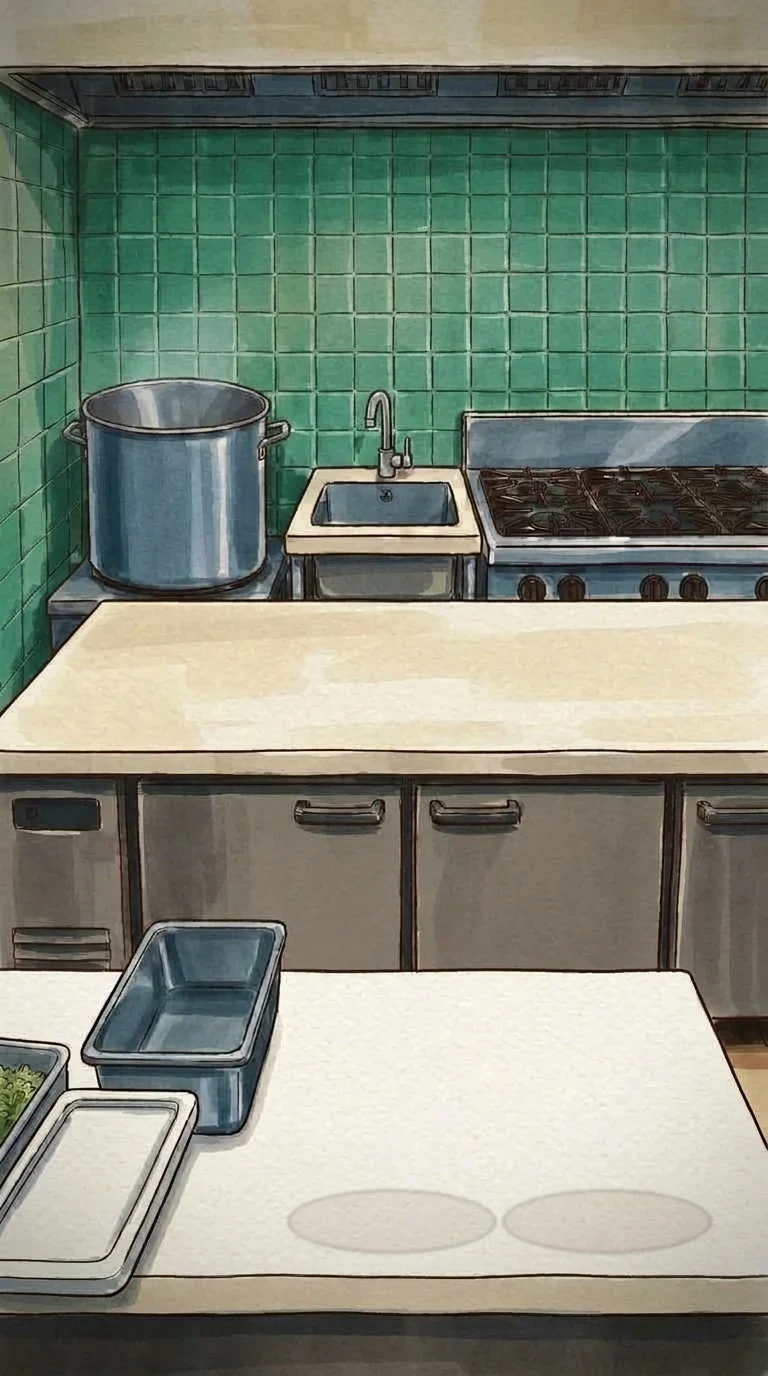
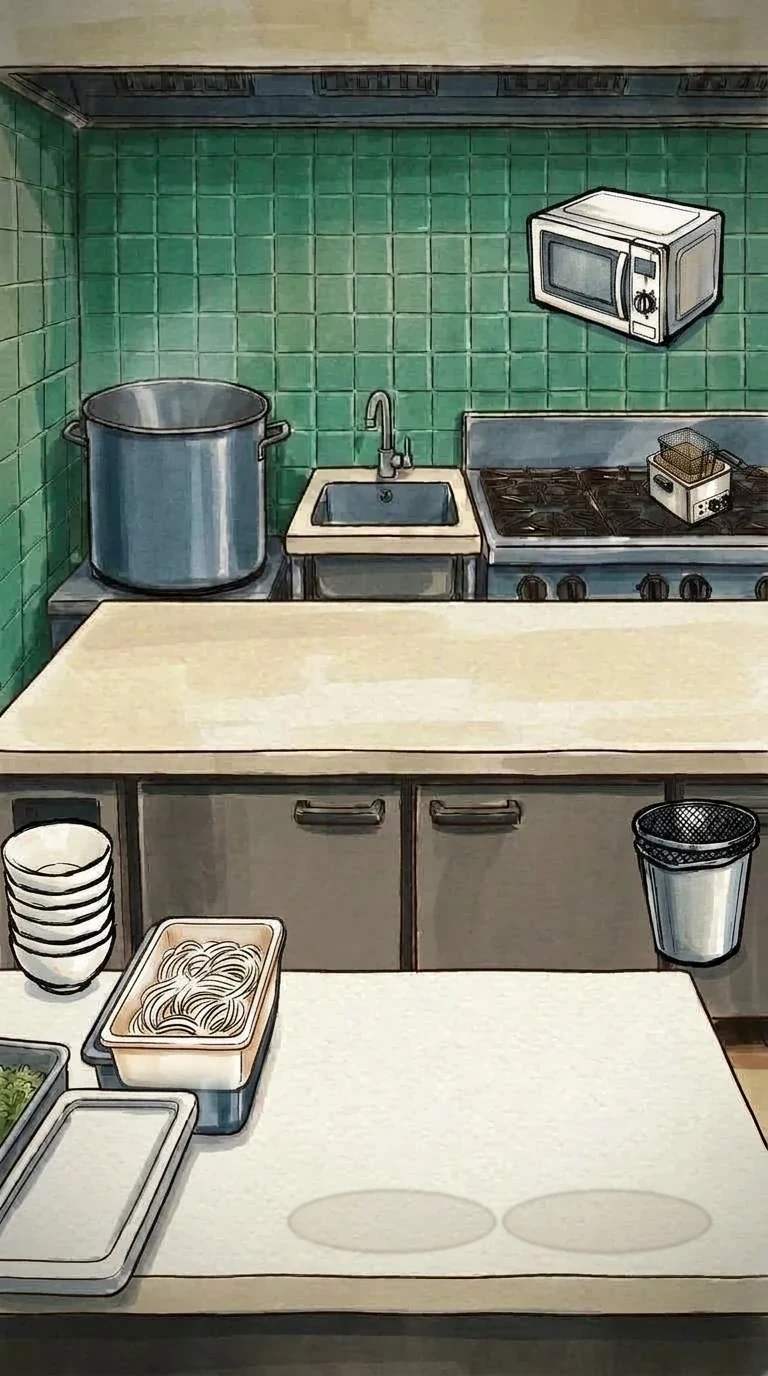
Het "dan ghep" + het "chim" (Kent 19/09: "vi tri do sai, chu chim, hieu ung chim")
1. Nuong do TINH vao tranh — scripts/bake_scene.py (moi):
   sprite thung rac / chong to / khay soi / lo vi song / chao chien dat dung ZONES
   (contain, can giua = .pv-objimg) -> anh guide -> Flow edit-image ve lai cho cung
   anh sang + bong tiep xuc -> struct_corr vs guide 0.804 -> scene-baked.webp.
   Flow "ve giup" them khay rau o cho thot -> RESTORE = ['boards'] tra pixel goc,
   mep lam mem. draw_mats.py doc scene-baked neu co -> public/art/scene.webp.
   SCENE.baked = ['trash','micro','fryer','stack','noodle']: game khong ve sprite
   cho cac o nay nua, chi giu o bam. Chong to / khay soi: chi khi level co DUNG 1
   loai; nhieu loai thi van sprite. Doi ZONES -> chay lai bake_scene + draw_mats.
   Bo het nhan noi (.hint): "to nong tru o day", "noi trong", "thot 1"...

2. LOUD: chu vien giay day (paint-order stroke, .9cqw), HUD/phieu vien muc + bong
   lech; +Nk 30px vang vien den no DUOI PHIEU (o HUD thi bay len la ra khoi tranh);
   dau ✓ 1.15x cao phieu, sao 0.8x; bung to: nen toi 22% mot nhip + khung rung 2px
   + phieu loe trang; o nhan nay 1.18 + vong vang.

Bay: `#pov small {display:block}` (id) de `.pv-stage .hint` -> phai #pov + !important;
`.pv-float` goc dung sau -> phai `#pov .pv-float`.

92 test pass. sw v72.

Claude-Session: https://claude.ai/code/session_014awNcPnGks6S8UpACG9mkS

diff --git a/src/pov.js b/src/pov.js
@@ -76,9 +76,13 @@ export class Pov {
       return `<div class="pv-pan dragsrc" title="${label(it)}" style="${st}" ${src1('item', it)}><img class="pv-panimg" src="${panArt(it)}" alt="" draggable="false" onerror="this.closest('.pv-pan').classList.add('noart');this.remove()"><i class="pv-ghosticon">${img(it)}</i><small>${label(it)}</small></div>`;
     };
     // Đồ có sprite riêng thì vẽ to đầy ô; icon nhỏ giữ lại (ẩn) để làm cái bay theo ngón tay.
-    const src = (it) => { const st = stationArt(it);
+    // Đồ TĨNH đã nướng vào tranh (scripts/bake_scene.py, SCENE.baked): không vẽ sprite nữa, chỉ giữ ô bấm.
+    // Chồng tô / khay sợi: chỉ khi level có ĐÚNG 1 loại (tranh vẽ 1 cái); nhiều loại thì vẫn sprite.
+    const baked = new Set(SCENE.baked || []);
+    const bakedOne = (zk) => baked.has(zk) && (zk === 'stack' ? C.bowlItems : C.noodleItems).length === 1;
+    const src = (it, zk) => { const st = stationArt(it); const hide = !!zk && bakedOne(zk);
       return st
-        ? `<div class="pv-obj dragsrc" ${src1('item', it)}><img class="pv-objimg" src="${st}" alt="" draggable="false" onerror="this.closest('.pv-obj').classList.add('noart');this.remove()"><i class="pv-ghosticon">${img(it)}</i><small>${label(it)}</small></div>`
+        ? `<div class="pv-obj dragsrc${hide ? ' baked' : ''}" title="${label(it)}" ${src1('item', it)}>${hide ? '' : `<img class="pv-objimg" src="${st}" alt="" draggable="false" onerror="this.closest('.pv-obj').classList.add('noart');this.remove()">`}<i class="pv-ghosticon">${img(it)}</i><small>${label(it)}</small></div>`
         : `<div class="pv-src dragsrc" ${src1('item', it)}>${img(it)}<small>${label(it)}</small></div>`; };
     const zone = (k, inner, cls = '') => `<div class="pv-z ${cls}" style="${z(k)}">${inner}</div>`;
     const dropz = (k, name, inner, cls = '') => `<div class="pv-z drop ${cls}" data-zone="${name}" style="${z(k)}">${inner}</div>`;
@@ -109,14 +113,14 @@ export class Pov {
               + `<img class="pv-steam s1" src="${fx('steam')}" alt="" draggable="false" onerror="this.remove()">`   // 1 wisp/nồi: 3 nồi + 2 khói nồi trụng + 1 giọt = 6 (ngân sách J9)
               + `<i class="pv-ghosticon">${img(tok)}</i><small>${label(tok)}</small></div>`).join(''),
             'row pots') : ''}
-        ${this.has.fryer ? dropz('fryer', 'fryer', `${objImg('fryer')}<div id="pvFryer"></div>`, 'st-fryer') : ''}
-        ${this.has.microwave ? dropz('micro', 'microwave', `${objImg('microwave')}<div id="pvMw"></div>`, 'st-mw') : ''}
+        ${this.has.fryer ? dropz('fryer', 'fryer', `${baked.has('fryer') ? '' : objImg('fryer')}<div id="pvFryer"></div>`, 'st-fryer') : ''}
+        ${this.has.microwave ? dropz('micro', 'microwave', `${baked.has('micro') ? '' : objImg('microwave')}<div id="pvMw"></div>`, 'st-mw') : ''}
         ${zone('prep', `<div class="pv-pans${panRows > 1 ? ' two' : ''}" id="pvTops">${panList.map(pan).join('')}</div>`, 'shelf')}
-        ${zone('stack', `<div class="pv-srcs">${C.bowlItems.map(src).join('')}</div>`, 'col')}
-        ${zone('noodle', `<div class="pv-srcs">${C.noodleItems.map(src).join('')}</div>`, 'row')}
+        ${zone('stack', `<div class="pv-srcs">${C.bowlItems.map((it) => src(it, 'stack')).join('')}</div>`, 'col')}
+        ${zone('noodle', `<div class="pv-srcs">${C.noodleItems.map((it) => src(it, 'noodle')).join('')}</div>`, 'row')}
         ${this.has.prep ? zone('boards', '<div class="pv-boards" id="pvBoards"></div>', 'row') : ''}
         ${zone('slots', '<div class="pv-slots" id="pvSlots"></div>')}
-        ${dropz('trash', 'trash', `<img class="pv-objimg" src="${trashArt()}" alt="" draggable="false" onerror="this.closest('.pv-z').classList.add('noart');this.remove()"><span class="pv-tr">🗑</span>`, 'trash')}
+        ${dropz('trash', 'trash', baked.has('trash') ? '' : `<img class="pv-objimg" src="${trashArt()}" alt="" draggable="false" onerror="this.closest('.pv-z').classList.add('noart');this.remove()"><span class="pv-tr">🗑</span>`, 'trash')}
       </div>
       <div class="pv-msg" id="pvMsg">Kéo hoặc chạm đôi: tô vô nồi để trụng · sợi vô rọ · topping vô tô · tô xong lên phiếu</div>`;
     // J8 — nhãn khay chỉ hiện ở level gợi ý (simplify / showLabels); level thật thì ẩn, sai 3 lần liên tiếp mới bật lại.
@@ -224,6 +228,7 @@ export class Pov {
     const tk = this.el.querySelector(`.tk[data-i="${t.id}"]`); if (!tk) return;
     const tr = tk.getBoundingClientRect();
     const cx = tr.left + tr.width / 2, cy = tr.top + tr.height / 2;
+    this._floatAt = { x: cx, y: tr.bottom + 6, t: performance.now() };   // +Nk nổ dưới phiếu
 
     // 1. tô bay lên phiếu (0–280 ms)
     const bowl = this.el.querySelector(`.pv-slot[data-i="${src?.i}"] .pv-bowl`) || this.el.querySelector('.pv-bowl');
@@ -238,6 +243,9 @@ export class Pov {
       setTimeout(() => g.remove(), 380);   // onfinish KHÔNG chạy khi tab bị nén khung hình — dọn bằng hẹn giờ
     }
     setTimeout(() => this.C.ev?.onSfx?.('serve'), 200);
+    // LOUD: nền tối một nhịp + khung rung nhẹ (phần tử riêng, tự dọn)
+    const dim = document.createElement('div'); dim.className = 'pv-dim'; this.el.appendChild(dim); setTimeout(() => dim.remove(), 500);
+    const stage = $('pvStage'); if (stage) { stage.classList.remove('jolt'); void stage.offsetWidth; stage.classList.add('jolt'); setTimeout(() => stage.classList.remove('jolt'), 320); }
 
     // 2. bản sao phiếu ở lại để đóng dấu rồi trượt đi
     const gh = tk.cloneNode(true); gh.className = 'tk pv-tkghost';
@@ -248,7 +256,7 @@ export class Pov {
       const st = document.createElement('img'); st.className = 'pv-fx pv-stamp'; st.src = fx('stamp');
       st.draggable = false; st.onerror = () => st.remove();
       // dấu cao ~0,8 chiều cao phiếu: đo lần đầu để 0.9*rộng → con dấu 65px trên phiếu 41px, to hơn cả phiếu
-      st.style.cssText = `left:${tr.right - tr.width * 0.15}px;top:${tr.top + tr.height * 0.1}px;width:${(tr.height * 0.8).toFixed(0)}px`;
+      st.style.cssText = `left:${tr.right - tr.width * 0.18}px;top:${tr.top + tr.height * 0.1}px;width:${(tr.height * 1.15).toFixed(0)}px`;   // LOUD: 1.15× cao phiếu (trước 0.8)
       this.el.appendChild(st);
       st.animate([{ transform: 'translate(-50%,-10%) rotate(-8deg) scale(1.6)', opacity: 0 },
         { transform: 'translate(-50%,-10%) rotate(-8deg) scale(1)', opacity: 1 }],
@@ -259,7 +267,7 @@ export class Pov {
       if (!t.mistakes) for (const k of [-1, 1]) {           // tô không lỗi: hai ngôi sao bay lên
         const sp = document.createElement('img'); sp.className = 'pv-fx pv-star'; sp.src = fx('sparkle');
         sp.draggable = false; sp.onerror = () => sp.remove();
-        sp.style.cssText = `left:${cx + k * tr.width * 0.22}px;top:${tr.top}px;width:${(tr.height * 0.5).toFixed(0)}px`;
+        sp.style.cssText = `left:${cx + k * tr.width * 0.22}px;top:${tr.top}px;width:${(tr.height * 0.8).toFixed(0)}px`;
         this.el.appendChild(sp);
         sp.animate([{ opacity: 0, transform: 'translate(-50%,0) scale(.6)' },
           { opacity: 1, transform: `translate(-50%,-${tr.height * 0.5}px) scale(1)`, offset: .4 },
@@ -466,7 +474,7 @@ export class Pov {
       root.classList.add('dragging');   // đang kéo mới hiện viền chỗ thả (CSS), lúc thường để tranh sạch
       ghost.style.transform = `translate(${e.clientX - 28}px, ${e.clientY - 28}px)`;
       // J8 — chạm giữ ≥ 350 ms không kéo → tooltip tên món (nhãn khay ẩn mặc định)
-      if (el.classList.contains('pv-pan')) drag.hold = setTimeout(() => { if (drag && !drag.moved) this.tip(el); }, 350);
+      if (el.classList.contains('pv-pan') || el.classList.contains('pv-obj')) drag.hold = setTimeout(() => { if (drag && !drag.moved) this.tip(el); }, 350);
     };
     // Bóng kéo bám con trỏ NGAY trong pointermove: đặt transform là việc rẻ, không đọc layout,
     // và không phụ thuộc rAF — tab bị hãm nhịp thì bóng vẫn theo tay. Chỗ nặng là dò ô
@@ -641,9 +649,11 @@ export class Pov {
   }
   moneyFloat(n) {
     const a = $('pvMoney'); if (!a) return;
+    // Nổ ngay chỗ PHIẾU vừa bưng (serveFx ghi _floatAt) — ở HUD thì bay lên là ra khỏi tranh. Không có thì ở ô tiền.
     const r = a.getBoundingClientRect(), e = document.createElement('span');
+    const at = this._floatAt && performance.now() - this._floatAt.t < 1500 ? this._floatAt : { x: r.left + r.width / 2, y: r.top + r.height + 8 };
     e.className = 'pv-float'; e.textContent = `+${n}k`;
-    e.style.left = `${r.left}px`; e.style.top = `${r.top}px`;
+    e.style.left = `${at.x}px`; e.style.top = `${at.y}px`; e.style.transform = 'translateX(-50%)';
     this.el.appendChild(e); this.o.sfx?.coin?.();
     setTimeout(() => e.remove(), 720);
   }

diff --git a/index.html b/index.html
@@ -448,6 +448,43 @@
         font-size: 4.2cqw; line-height: 1; padding: 0; cursor: pointer; color: #3b2a1e;
         border: 1px solid rgba(90,66,44,.35); border-radius: 50%; background: rgba(255,252,244,.9); }
 
+      /* ---- LOUD (Kent 19/09: "chữ chìm, hiệu ứng chìm"): chữ có viền giấy dày, hiệu ứng phẳng-bão-hoà-viền-đen, to gấp đôi ---- */
+      #pov .pv-stage .hint { display: none !important; }   /* #pov small {display:block} (id) đè .pv-stage .hint */
+      #pov .pv-stage .pv-obj.baked small { display: none; }        /* đồ đã vẽ trong tranh: không nhãn, chạm giữ mới hiện tên */                                   /* "tô nóng trữ ở đây", "nồi trống", "thớt 1"… — tranh sạch */
+      .pv-stage small, .pv-stage .pv-hud, .pv-stage .pv-hud span, .pv-stage .pv-hud i, .pv-rail .tk b, .pv-rail .tk span, #pov .pv-tip {
+        color: #26190f; font-weight: 700; paint-order: stroke fill; -webkit-text-stroke: .9cqw rgba(255,252,244,.96);
+        text-shadow: 0 1px 0 rgba(255,252,244,.9), 0 -1px 0 rgba(255,252,244,.9), 1px 0 0 rgba(255,252,244,.9), -1px 0 0 rgba(255,252,244,.9); }
+      .pv-stage .pv-pan small { font-size: 2.6cqw; }
+      .pv-stage .pv-src small, .pv-stage .pv-broth small { font-size: 2.8cqw; }
+      .pv-stage .pv-hud { background: rgba(255,252,244,.94); border: .45cqw solid #26190f; box-shadow: 0 .8cqw 0 #26190f55; }
+      .pv-stage .pv-hud span { font-size: 5.2cqw; }
+      .pv-streak { font-size: 4.2cqw; color: #fff; background: #d64a2c; -webkit-text-stroke: 0; text-shadow: none; border: .4cqw solid #26190f; }
+      .pv-x { border: .45cqw solid #26190f; }
+      .pv-rail .tk { border: .45cqw solid #26190f; box-shadow: .6cqw .8cqw 0 #26190f55; }
+      .pv-clock circle { stroke-width: 5; }
+      .pv-clock .bg { stroke: rgba(38,25,15,.22); }
+      /* tiền bay: vàng chói, viền đen, to gấp đôi, nảy rồi bay */
+      #pov .pv-float { font-family: "Patrick Hand", cursive; font-size: 30px; color: #ffd23f; text-shadow: none;   /* #pov: đè rule .pv-float gốc (16px) đứng sau */
+        paint-order: stroke fill; -webkit-text-stroke: 6px #26190f; animation: pvFloat .9s cubic-bezier(.2,.9,.3,1) forwards; }
+      @keyframes pvFloat { 0% { transform: translate(-50%, 6px) scale(.6); opacity: 0; } 18% { transform: translate(-50%, -4px) scale(1.25); opacity: 1; }
+        40% { transform: translate(-50%, -10px) scale(1); } 100% { transform: translate(-50%, -64px) scale(1); opacity: 0; } }
+      /* ô nhận nảy mạnh hơn + vòng loé */
+      @keyframes pvHit { 0% { transform: scale(1); } 40% { transform: scale(1.18); } 100% { transform: scale(1); } }
+      .pv-stage .drop:not(.pv-z) { position: relative; }
+      .drop.hit::after { content: ''; position: absolute; inset: -6%; border-radius: 14%; border: .8cqw solid #ffd23f;
+        box-shadow: 0 0 0 .45cqw #26190f, 0 0 12px #ffd23f; animation: pvRing .34s ease-out forwards; pointer-events: none; }
+      @keyframes pvRing { from { opacity: 1; transform: scale(.9); } to { opacity: 0; transform: scale(1.15); } }
+      /* khoảnh khắc bưng tô: nền tối một nhịp + rung nhẹ + phiếu loé trắng */
+      #pov .pv-dim { position: fixed; inset: 0; z-index: 17; pointer-events: none; background: #1a1008; opacity: 0; animation: pvDim .45s ease-out forwards; }
+      @keyframes pvDim { 0% { opacity: 0; } 20% { opacity: .22; } 100% { opacity: 0; } }
+      .pv-stage.jolt { animation: pvJolt .28s linear; }
+      @keyframes pvJolt { 0%, 100% { transform: translate(0,0); } 25% { transform: translate(2px,-2px); } 50% { transform: translate(-2px,1px); } 75% { transform: translate(1px,2px); } }
+      #pov .pv-tkghost::before { content: ''; position: absolute; inset: 0; background: #fff; opacity: 0; animation: tkFlash .32s ease-out .26s; pointer-events: none; z-index: 3; }
+      @keyframes tkFlash { 0% { opacity: 0; } 30% { opacity: .85; } 100% { opacity: 0; } }
+      #pov .pv-stamp { filter: drop-shadow(0 2px 0 #26190f) drop-shadow(0 0 4px rgba(255,255,255,.8)); }
+      #pov .pv-star, #pov .pv-burst { filter: drop-shadow(0 1px 0 #26190f); }
+      @media (prefers-reduced-motion: reduce) { .pv-stage.jolt, #pov .pv-dim { animation: none; } }
+
       /* ---- J9: đời sống nền. Tất cả là CSS loop trên phần tử KHÔNG bị render() dựng lại (setHTML) ---- */
       .pv-stage .pv-z.st-pot .pv-steam { position: absolute; left: 50%; top: 4%; width: 34%; height: auto; pointer-events: none;
         opacity: 0; animation: potSteam 3s ease-out infinite; }

diff --git a/public/sw.js b/public/sw.js
@@ -1,5 +1,5 @@
 // Quán Bún PWA — cache-first cho tài nguyên build (tên file có hash), network-first cho trang; mở offline được sau lần tải đầu.
-const VERSION = 'qb-' + (self.registration ? self.registration.scope : '') + '-v67';
+const VERSION = 'qb-' + (self.registration ? self.registration.scope : '') + '-v72';
 const CORE = ['./', './index.html', './manifest.webmanifest', './icon-192.png', './icon-512.png'];
 self.addEventListener('install', (e) => { e.waitUntil(caches.open(VERSION).then((c) => c.addAll(CORE)).then(() => self.skipWaiting())); });
 self.addEventListener('activate', (e) => { e.waitUntil(caches.keys().then((ks) => Promise.all(ks.filter((k) => k !== VERSION).map((k) => caches.delete(k)))).then(() => self.clients.claim())); });

diff --git a/src/data/counter-layout.js b/src/data/counter-layout.js
@@ -6,7 +6,10 @@
 // Vẽ hitbox to hơn vật một chút cho dễ trúng ngón tay; ảnh chỉ để nhìn.
 // Đổi nền khác thì đo lại đúng bảng ZONES này, không phải sửa code.
 
-export const SCENE = { src: 'art/scene.webp', w: 768, h: 1376 };
+export const SCENE = { src: 'art/scene.webp', w: 768, h: 1376,
+  // Đồ TĨNH đã vẽ thẳng vào tranh bằng scripts/bake_scene.py (Kent 19/09: "nhìn như dán ghép").
+  // Game không vẽ sprite cho các ô này nữa. Đổi ZONES của chúng thì chạy lại bake_scene.py + draw_mats.py.
+  baked: ['trash', 'micro', 'fryer', 'stack', 'noodle'] };
 
 /** x, y, w, h tính bằng % của khung nền. */
 export const ZONES = {

diff --git a/scripts/bake_scene.py b/scripts/bake_scene.py
@@ -1,0 +1,109 @@
+"""Nuong do vat TINH vao tranh nen (Kent 19/09: "nhin nhu dan ghep").
+
+  Sprite (thung rac, chong to, khay soi, lo vi song, chao chien) dat vao dung ZONES
+  (contain, can giua — y nhu .pv-objimg trong game) -> anh "guide" ->
+  Flow edit-image ve lai cho cung anh sang / bong tiep xuc, KHONG doi bo cuc ->
+  kiem struct_corr voi guide -> art/raw/scene/scene-baked.webp.
+  Sau do scripts/draw_mats.py ve tam lot len -> public/art/scene.webp.
+
+  python scripts/bake_scene.py            # nuong + kiem
+  python scripts/bake_scene.py --guide    # chi tao anh guide de xem
+Doi ZONES trong tools/zones.html -> chay lai la khop.
+"""
+import os, re, sys, json, time, urllib.request
+import numpy as np
+from PIL import Image
+
+R = os.path.dirname(os.path.dirname(os.path.abspath(__file__)))
+SRC = os.path.join(R, "art", "raw", "scene", "scene-j1.webp")
+GUIDE = os.path.join(R, "art", "raw", "scene", "scene-bake-guide.png")
+RAW = os.path.join(R, "art", "raw", "scene", "scene-baked-raw.png")
+OUT = os.path.join(R, "art", "raw", "scene", "scene-baked.webp")
+PID = "c20ed4c0-2339-430b-9c60-e16ed525a0e9"
+API = "http://127.0.0.1:8100"
+# zone -> sprite (public/art/st-*.webp). Thu tu = thu tu ve (sau de len truoc).
+# Flow hay "ve giup" them do (lan dau: khay rau xanh ngay cho thot). Vung nay tra lai pixel goc, mep lam mem.
+RESTORE = ["boards"]
+BAKE = [("micro", "st-microwave"), ("fryer", "st-fryer"), ("stack", "st-bowl-stack"), ("noodle", "st-noodle-tray"), ("trash", "st-trash")]
+
+def zones():
+    t = open(os.path.join(R, "src", "data", "counter-layout.js"), encoding="utf-8").read()
+    body = t[t.find("export const ZONES"):]
+    body = body[:body.find("};") + 2]
+    z = {}
+    for m in re.finditer(r"(\w+):\s*\{\s*x:\s*([\d.]+),\s*y:\s*([\d.]+),\s*w:\s*([\d.]+),\s*h:\s*([\d.]+)", body):
+        z[m.group(1)] = tuple(float(m.group(i)) for i in range(2, 6))
+    return z
+
+def guide():
+    im = Image.open(SRC).convert("RGBA"); W, H = im.size
+    Z = zones()
+    for zk, sp in BAKE:
+        x, y, w, h = Z[zk]
+        bx, by, bw, bh = int(x / 100 * W), int(y / 100 * H), int(w / 100 * W), int(h / 100 * H)
+        s = Image.open(os.path.join(R, "public", "art", sp + ".webp")).convert("RGBA")
+        k = min(bw / s.width, bh / s.height)
+        s = s.resize((max(1, int(s.width * k)), max(1, int(s.height * k))), Image.LANCZOS)
+        ox, oy = bx + (bw - s.width) // 2, by + (bh - s.height) // 2      # contain, can giua = .pv-objimg
+        im.alpha_composite(s, (ox, oy))
+    im.convert("RGB").save(GUIDE)
+    return GUIDE
+
+def post(path, body, timeout=300):
+    req = urllib.request.Request(API + path, data=json.dumps(body).encode(), headers={"Content-Type": "application/json"})
+    with urllib.request.urlopen(req, timeout=timeout) as r: return json.loads(r.read().decode())
+
+def retry(fn, n=4):
+    last = None
+    for _ in range(n):
+        try: return fn()
+        except Exception as e: last = e; time.sleep(4)
+    raise last
+
+def edges(L):
+    gx = np.zeros_like(L); gy = np.zeros_like(L)
+    gx[:, 1:-1] = L[:, 2:] - L[:, :-2]; gy[1:-1, :] = L[2:, :] - L[:-2, :]
+    return np.hypot(gx, gy)
+
+def struct_corr(a, b):
+    ea, eb = edges(a).ravel(), edges(b).ravel()
+    ea = ea / (ea.std() or 1); eb = eb / (eb.std() or 1)
+    return float(np.corrcoef(ea - ea.mean(), eb - eb.mean())[0, 1])
+
+PROMPT = ("This is one watercolour-and-ink illustration of a Vietnamese noodle kitchen. A few objects were pasted in as cut-outs: "
+          "a metal trash bin, a stack of white bowls, a tray of noodles, a microwave oven on the wall shelf, a deep fryer on the stove. "
+          "Repaint ONLY those pasted objects so they belong to the painting: the same ink line weight, the same watercolour palette and paper texture, "
+          "light from the upper left like the rest of the room, and a soft contact shadow where each object touches the surface it stands on. "
+          "Keep every object at EXACTLY the same position and size. Do not add, remove, move or restyle anything else. The composition must stay identical.")
+
+def bake():
+    g = guide()
+    up = retry(lambda: post("/api/flow/upload-image", {"file_path": g, "project_id": PID, "file_name": "scene-bake-guide.png"}))
+    mid = up.get("media_id") or up.get("mediaId")
+    r = retry(lambda: post("/api/flow/edit-image", {"prompt": PROMPT, "source_media_id": mid, "project_id": PID, "aspect_ratio": "IMAGE_ASPECT_RATIO_PORTRAIT"}))
+    url = r["media"][0]["image"]["generatedImage"]["fifeUrl"]
+    urllib.request.urlretrieve(url, RAW)
+    a = Image.open(RAW).convert("L"); b = Image.open(g).convert("L")
+    a = a.resize(b.size, Image.LANCZOS)
+    sc = struct_corr(np.asarray(a, np.float32), np.asarray(b, np.float32))
+    out = post_process()
+    return {"struct_vs_guide": round(sc, 3), "raw": RAW, "out": OUT, "raw_size": Image.open(RAW).size}
+
+def post_process():
+    from PIL import ImageDraw, ImageFilter
+    base = Image.open(SRC).convert("RGB"); W, H = base.size
+    out = Image.open(RAW).convert("RGB").resize((W, H), Image.LANCZOS)
+    Z = zones()
+    for zk in RESTORE:
+        x, y, w, h = Z[zk]
+        m = Image.new("L", (W, H), 0)
+        ImageDraw.Draw(m).rectangle([x / 100 * W, y / 100 * H, (x + w) / 100 * W, (y + h) / 100 * H], fill=255)
+        m = m.filter(ImageFilter.GaussianBlur(10))
+        out = Image.composite(base, out, m)
+    out.save(OUT, "WEBP", quality=90, method=6)
+    return OUT
+
+if __name__ == "__main__":
+    if "--guide" in sys.argv: print(guide())
+    elif "--post" in sys.argv: print(post_process())      # chi lam lai buoc hau ky tu RAW, khong gen lai
+    else: print(json.dumps(bake()))

diff --git a/scripts/draw_mats.py b/scripts/draw_mats.py
@@ -10,7 +10,9 @@ import io, os, sys
 from PIL import Image, ImageDraw, ImageFilter
 
 R = os.path.dirname(os.path.dirname(os.path.abspath(__file__)))
-SRC = os.path.join(R, "art", "raw", "scene", "scene-j1.webp")
+# Nguon: ban da nuong do vat (bake_scene.py) neu co, khong thi scene-j1
+SRC = os.path.join(R, "art", "raw", "scene", "scene-baked.webp")
+if not os.path.exists(SRC): SRC = os.path.join(R, "art", "raw", "scene", "scene-j1.webp")
 DST = os.path.join(R, "public", "art", "scene.webp")
 
 # ZONES.slots = x 37, y 69, w 56, h 26 (% khung tranh). Hai cho to nam o 1/4 va 3/4 be ngang o.
